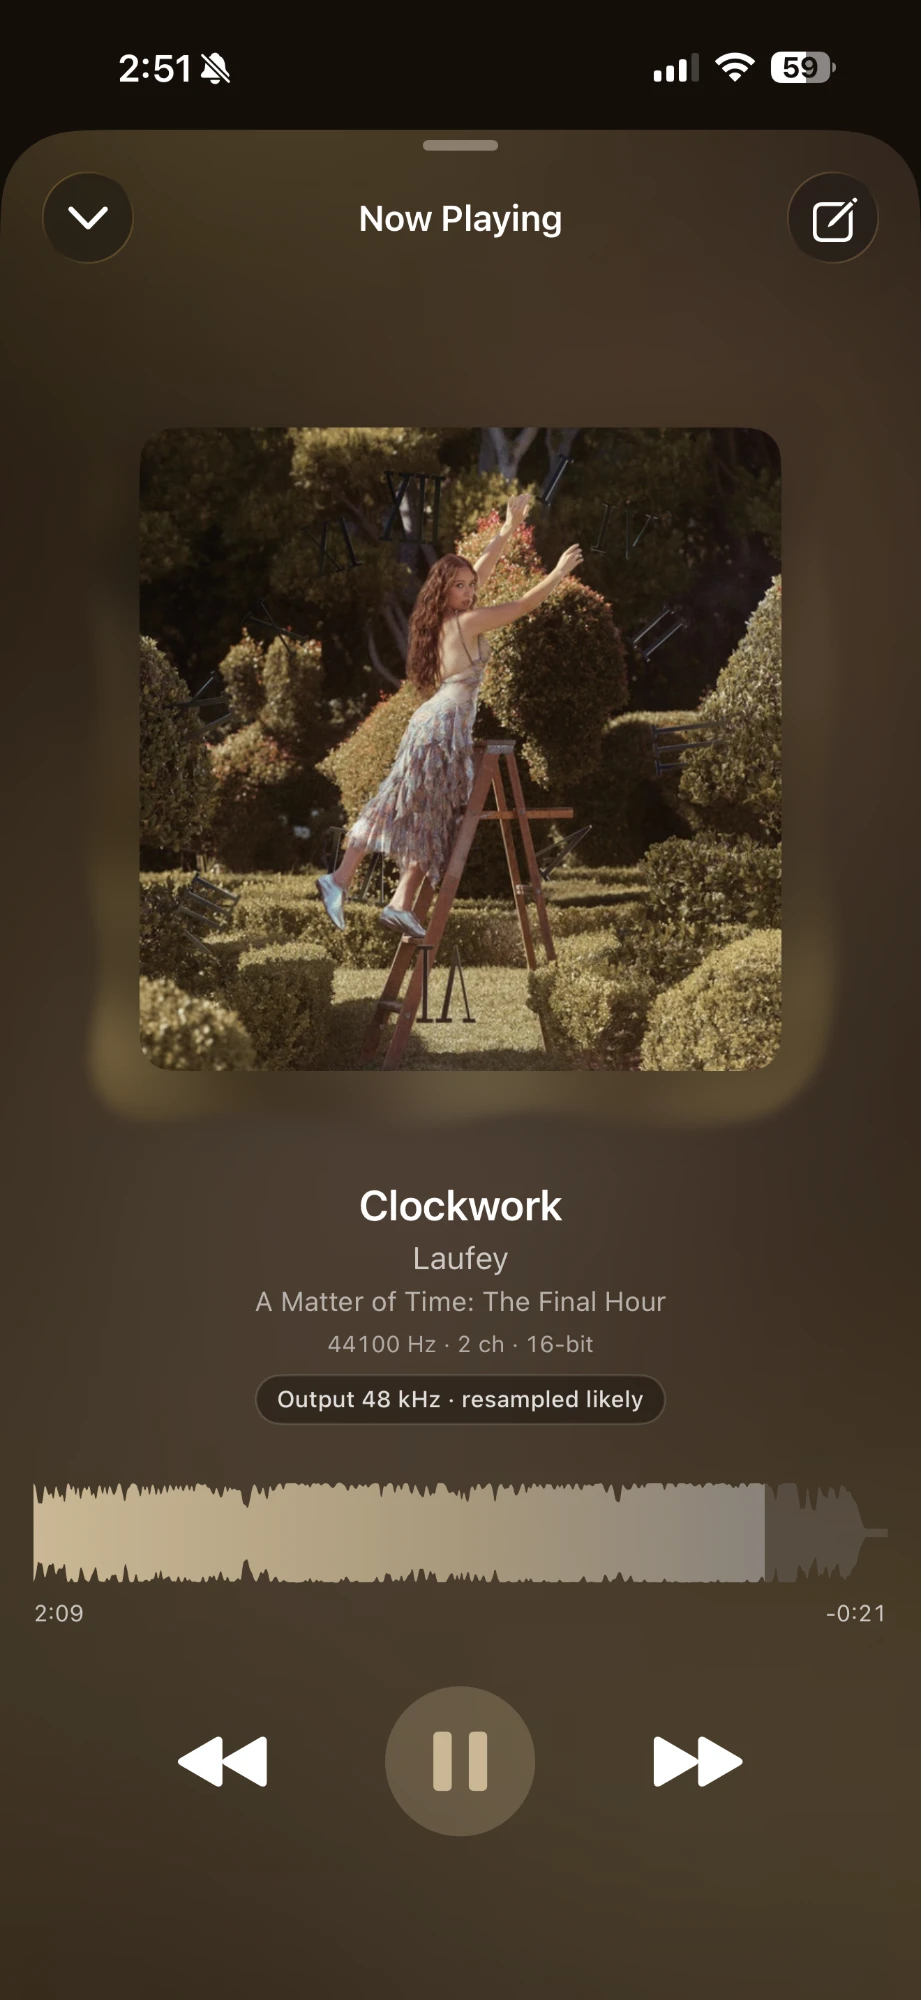
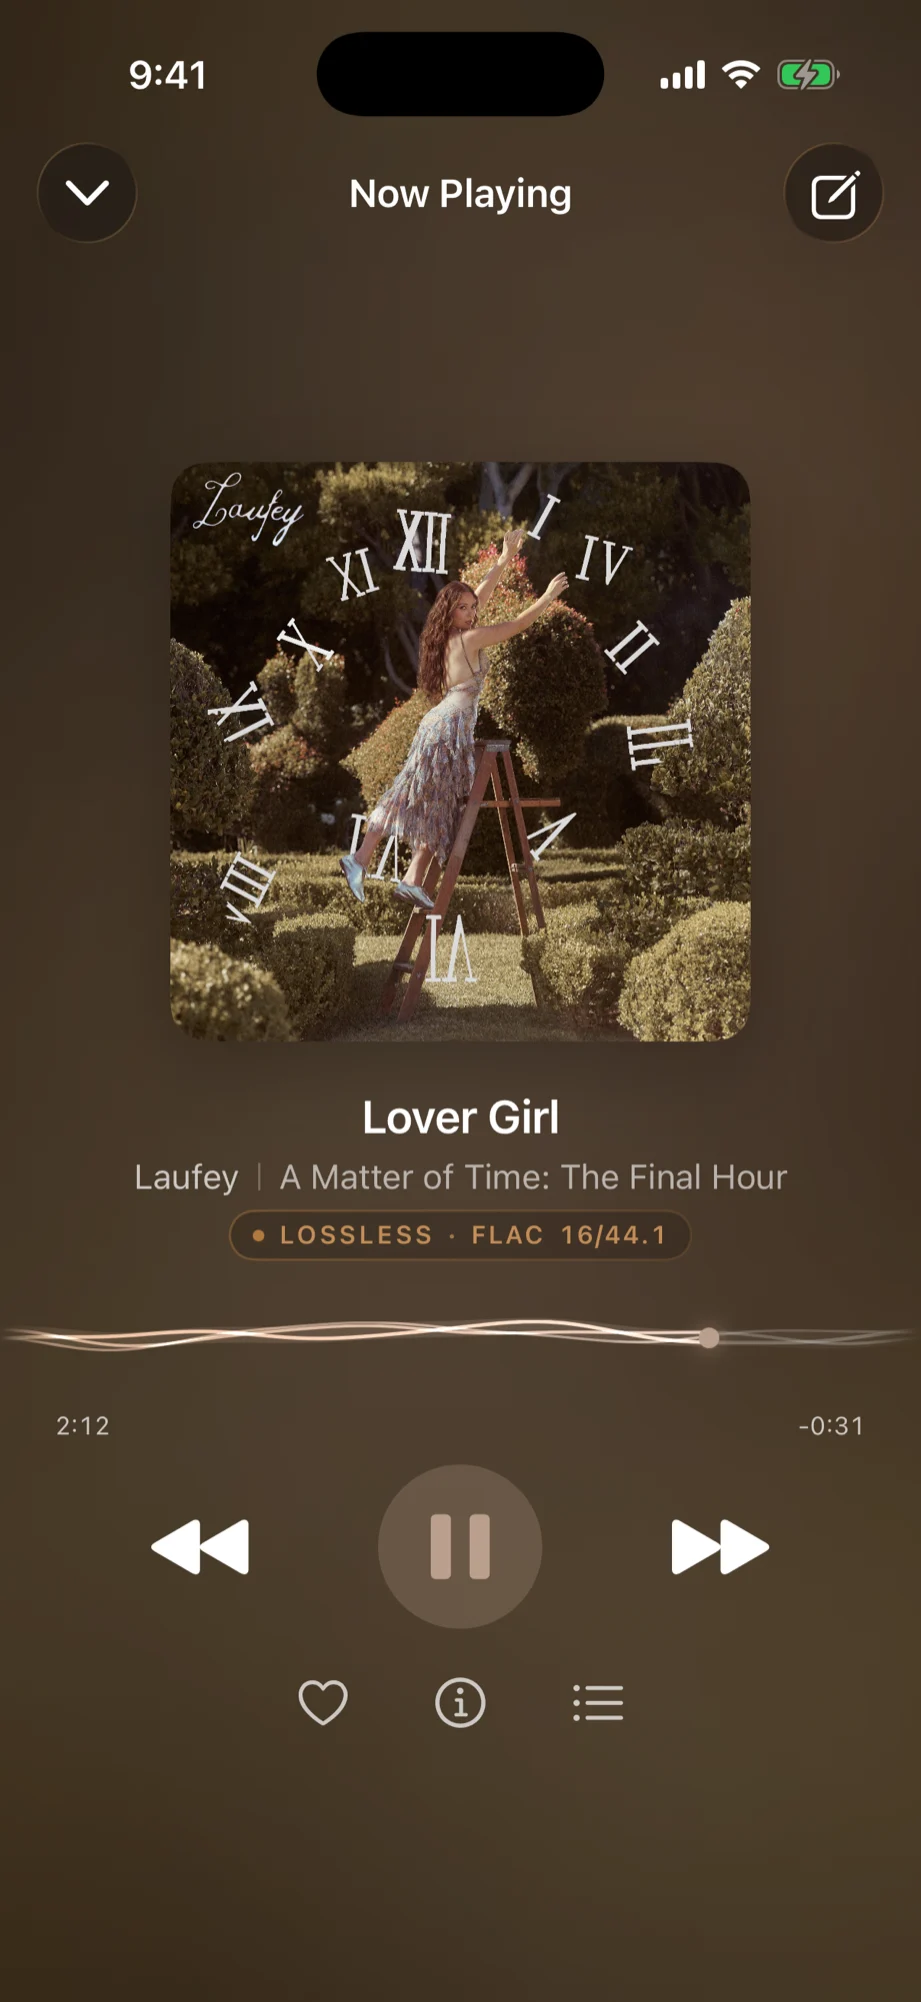
Swap hero shot to 'Lover Girl' and correct image dimensions

diff --git a/index.html b/index.html
@@ -711,10 +711,10 @@ em.serif-italic { font-style: italic; color: var(--gold-hi); }
 
       <!-- Real Kord Now Playing screenshot inside a CSS device bezel -->
       <div class="hero__visual">
-        <div class="iphone" role="img" aria-label="Kord Now Playing screen on iPhone — 'Clockwork' by Laufey playing in lossless FLAC">
+        <div class="iphone" role="img" aria-label="Kord Now Playing screen on iPhone — 'Lover Girl' by Laufey playing in lossless FLAC">
           <div class="iphone__screen">
-            <img class="iphone__shot" src="assets/now-playing.webp" width="921" height="2000"
-                 alt="Kord's Now Playing screen showing 'Clockwork' by Laufey with album artwork, a waveform scrubber, and a lossless audio signal-path badge" />
+            <img class="iphone__shot" src="assets/now-playing.webp" width="921" height="2002"
+                 alt="Kord's Now Playing screen showing 'Lover Girl' by Laufey with album artwork, a waveform scrubber, and a lossless FLAC 16/44.1 audio badge" />
             <div class="iphone__island" aria-hidden="true"></div>
             <div class="ios-home" aria-hidden="true"></div>
           </div>
